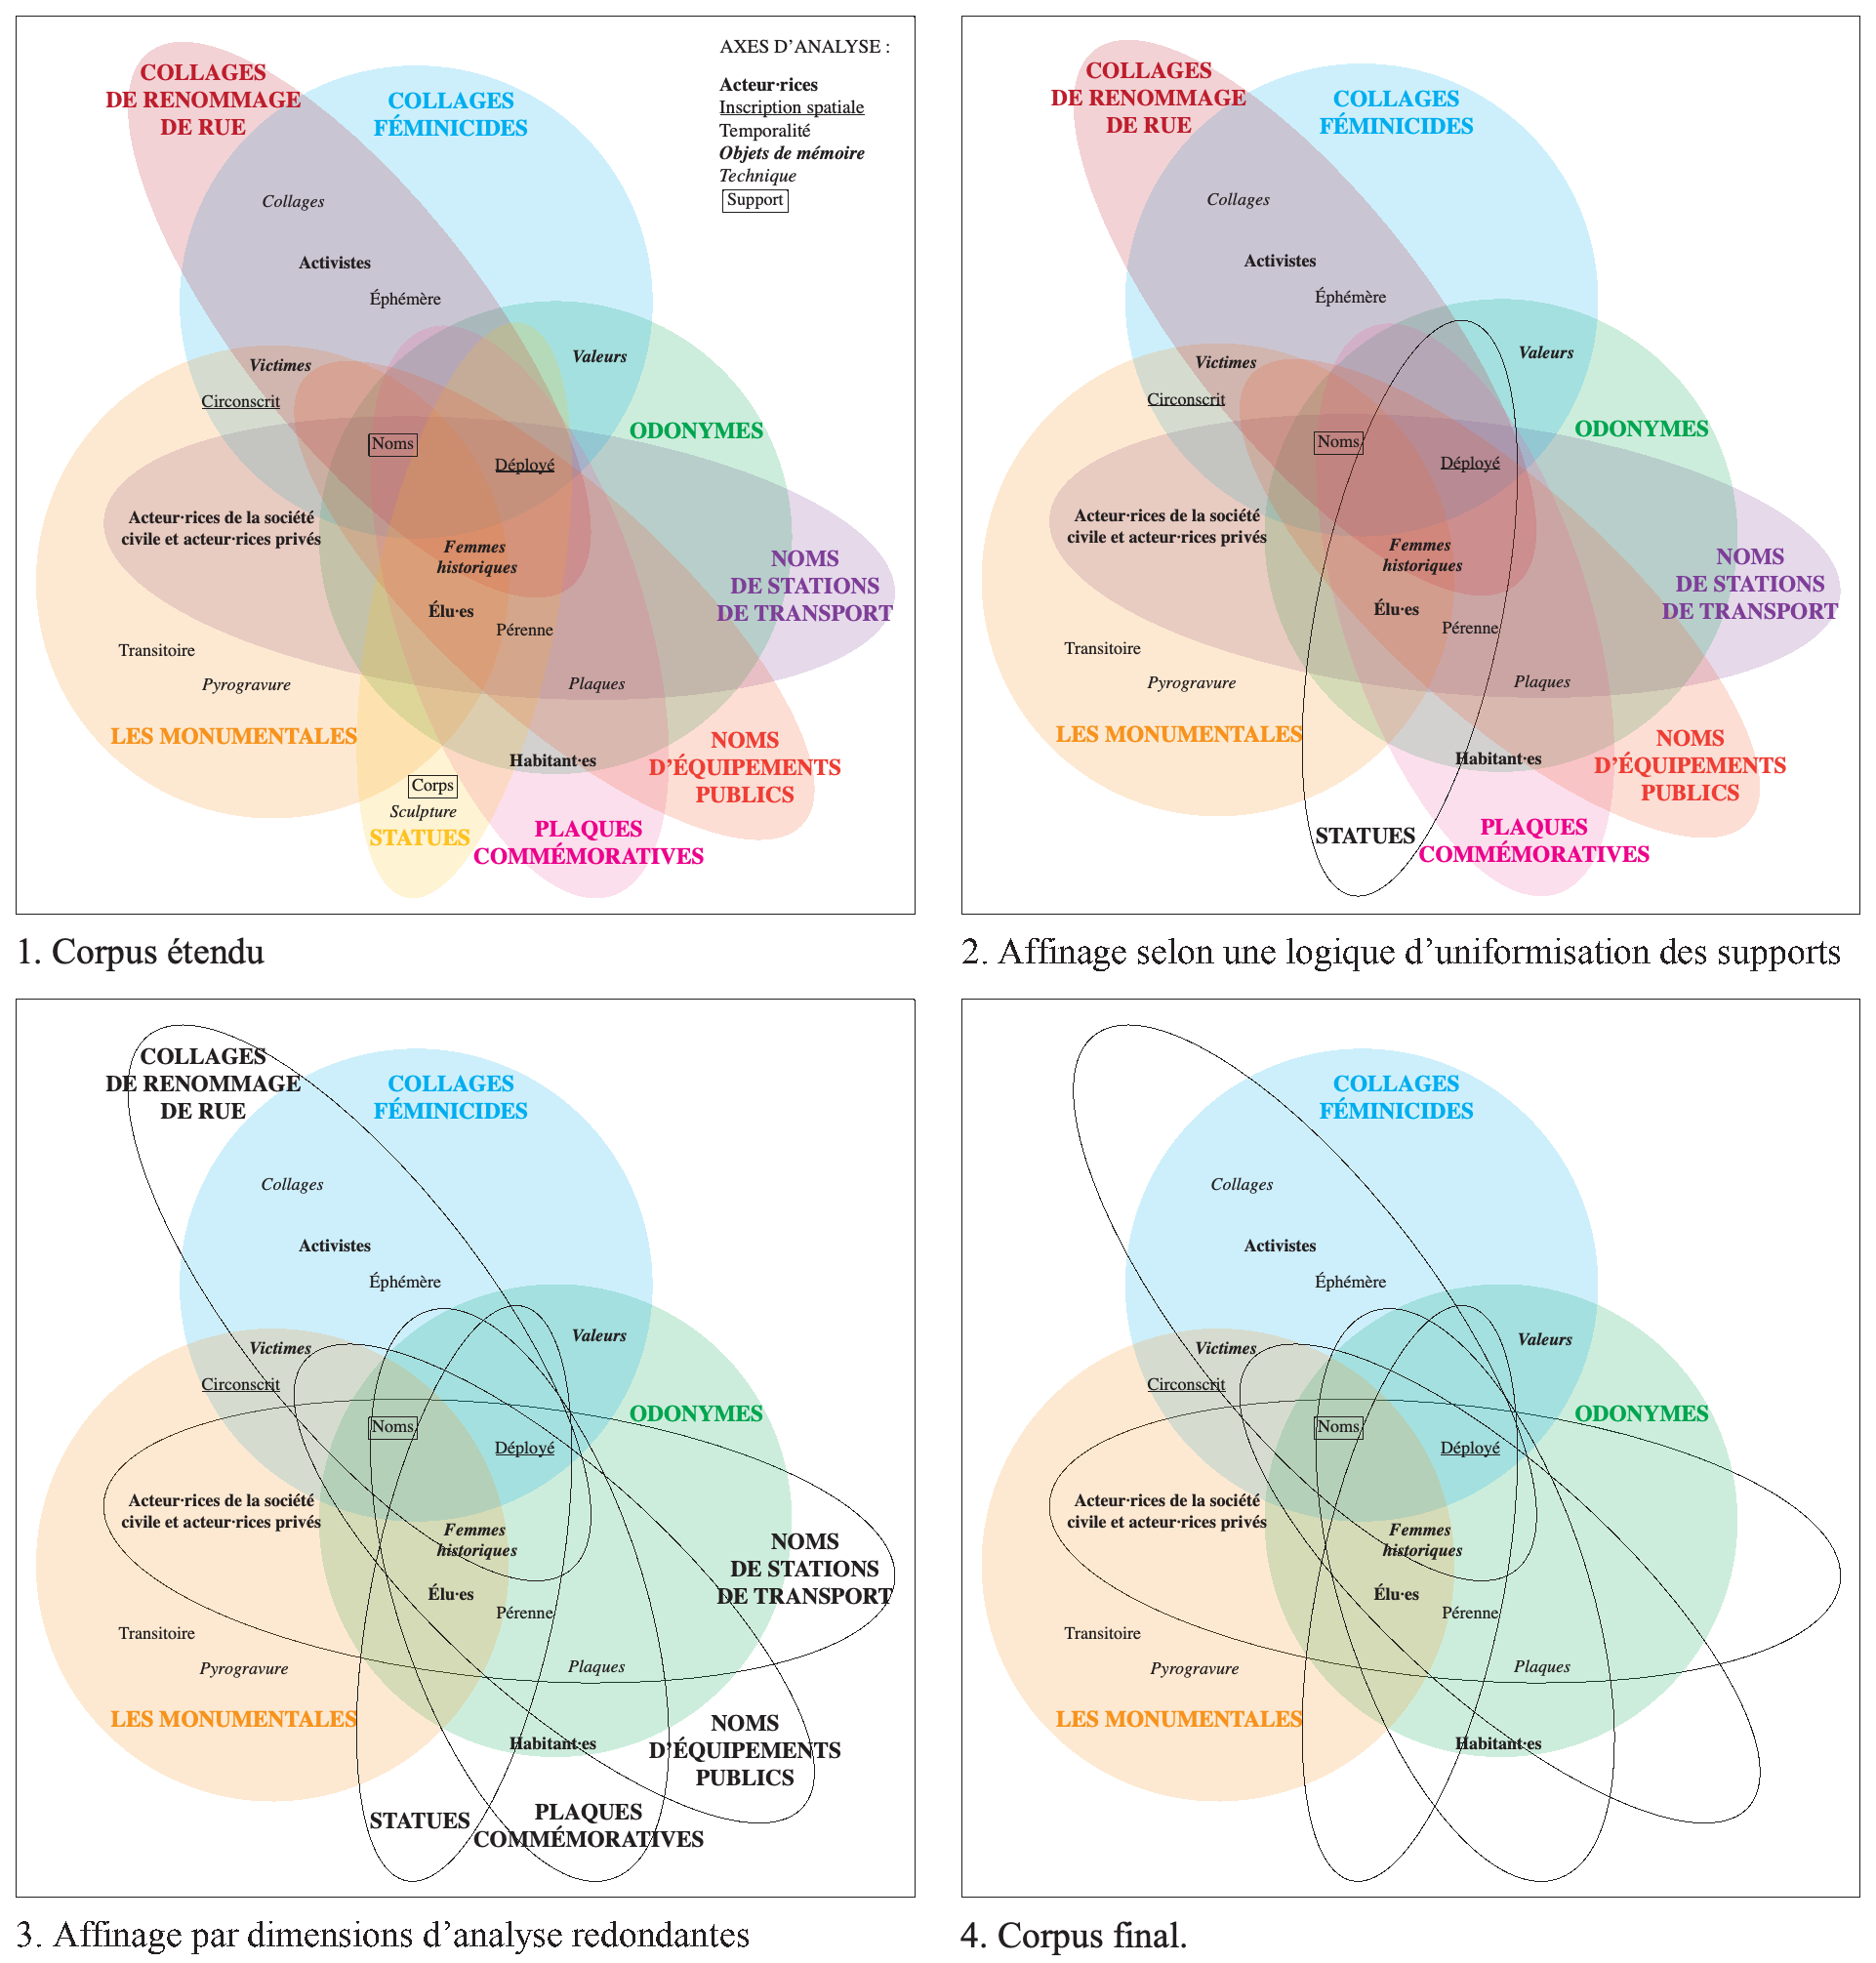
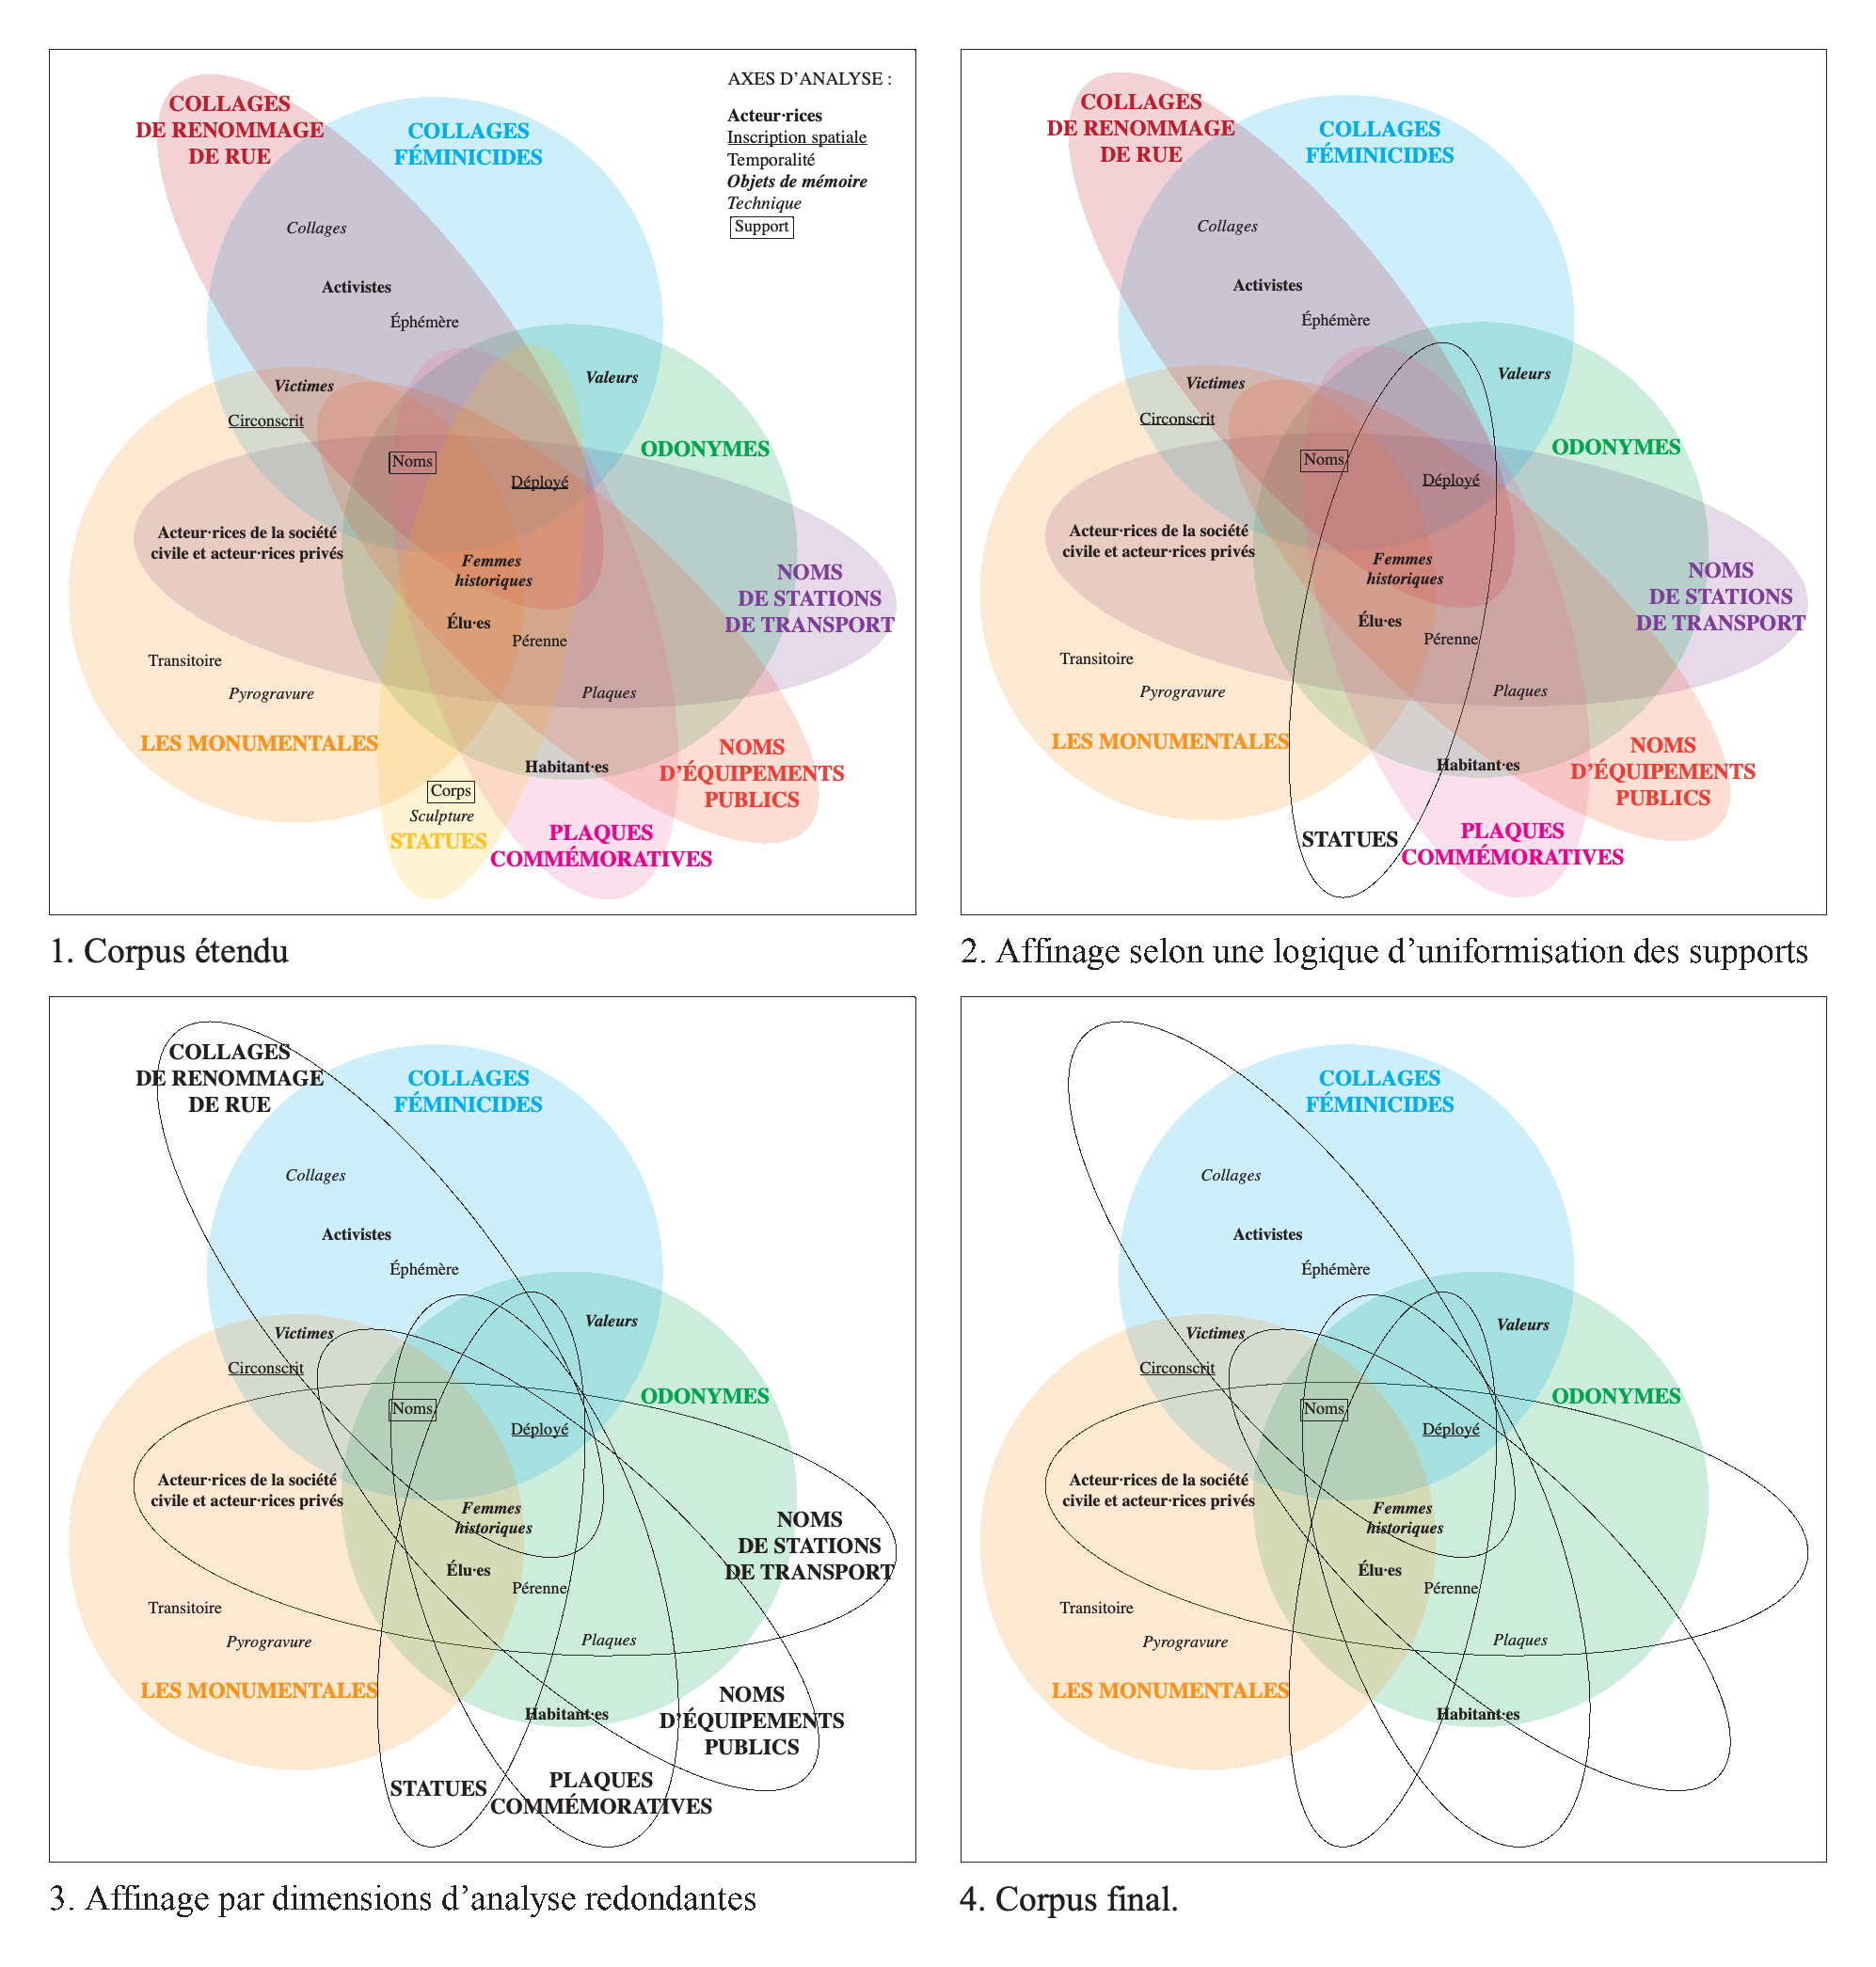
Corpus: white breathing margin (no longer reads as cut); lightbox mat + paper border white instead of cream

diff --git a/index.html b/index.html
@@ -37,7 +37,7 @@
 }
 </script>
 <script>
-  var BUILD = 45;
+  var BUILD = 46;
   console.log('%cDr Alexandra Mallah — site v' + BUILD, 'color:#8a6d3b;font-weight:bold');
   (function(){
     try{
@@ -149,7 +149,7 @@
   .schema img{width:100%;height:auto;display:block;background:transparent;cursor:zoom-in;
     transition:transform .55s cubic-bezier(.2,.6,.2,1);-webkit-user-drag:none}
   .schema:hover img{transform:scale(1.045)}
-  .schema.paper img{border:1px solid var(--line);border-radius:8px;background:#fff;padding:9px;box-sizing:border-box}
+  .schema.paper img{border:1px solid #fff;border-radius:8px;background:#fff;padding:9px;box-sizing:border-box}
   .docs-jump{display:inline-flex;align-items:center;gap:7px;margin-top:22px;padding:11px 22px;border:1px solid var(--gold-soft);border-radius:30px;color:var(--gold);font-family:var(--sans);font-size:14px;letter-spacing:.02em;cursor:pointer;background:transparent;transition:background .25s,color .25s,border-color .25s}
   .docs-jump:hover{background:var(--gold);color:#fff;border-color:var(--gold)}
   .schema figcaption{padding:8px 2px 2px;font-size:13.5px;color:var(--ink);font-family:var(--serif)}
@@ -171,7 +171,7 @@
   .lb-fig{margin:0;display:flex;flex-direction:column;align-items:center;gap:14px;max-width:94%}
   .lb-fig img{max-width:100%;max-height:80vh;border-radius:8px;box-shadow:0 20px 60px rgba(0,0,0,.45);
     background:none;object-fit:contain;-webkit-user-drag:none;user-select:none}
-  .lightbox.sch .lb-fig img{background:#f7f2ea;padding:18px;box-sizing:border-box}
+  .lightbox.sch .lb-fig img{background:#fff;padding:18px;box-sizing:border-box}
   .lb-cap{font-family:var(--serif);font-size:15px;color:#f3ece0;text-align:center;max-width:600px;line-height:1.4}
   .lb-cap .credit{display:block;font-family:var(--sans);font-size:11.5px;color:#bcae99;margin-top:3px}
   .lb-close{position:absolute;top:16px;right:24px;color:#fff;font-size:32px;line-height:1;opacity:.8;cursor:pointer;z-index:3}
@@ -404,7 +404,7 @@
           <div class="doc-col">
             <h4><span class="en">Diagrams &amp; charts</span><span class="fr">Graphiques &amp; schémas</span></h4>
             <div class="doc-scroll">
-              <figure class="schema paper"><img src="images/fig-corpus.png?v=45" loading="lazy" draggable="false" alt="Schéma de la construction du corpus de recherche par affinages successifs"><figcaption><span class="en">Building the research corpus through successive refinements</span><span class="fr">Construction du corpus de recherche par affinages successifs</span><span class="credit">© Alexandra Mallah, 2025</span></figcaption></figure>
+              <figure class="schema paper"><img src="images/fig-corpus.png?v=46" loading="lazy" draggable="false" alt="Schéma de la construction du corpus de recherche par affinages successifs"><figcaption><span class="en">Building the research corpus through successive refinements</span><span class="fr">Construction du corpus de recherche par affinages successifs</span><span class="credit">© Alexandra Mallah, 2025</span></figcaption></figure>
               <figure class="schema paper"><img src="images/fig-schemes.png?v=41" loading="lazy" draggable="false" alt="Schéma des schèmes temporels et spatiaux qui régissent l'existence des écrits"><figcaption><span class="en">Temporal and spatial schemes governing the life of public writings</span><span class="fr">Schèmes temporels et spatiaux qui régissent l'existence des écrits</span><span class="credit">© Alexandra Mallah, 2025</span></figcaption></figure>
               <figure class="schema paper"><img src="images/fig-visibilite.png?v=45" loading="lazy" draggable="false" alt="Schéma de la visibilité des écritures exposées selon une approche temporelle"><figcaption><span class="en">The visibility of public writings through a temporal lens</span><span class="fr">Synthèse de la visibilité des écritures exposées selon une approche temporelle</span><span class="credit">© Alexandra Mallah, 2025</span></figcaption></figure>
               <figure class="schema paper"><img src="images/fig-pantheon.png?v=41" loading="lazy" draggable="false" alt="Schéma de l'organisation des marqueurs mémoriels de la place du Panthéon selon le type de mémoire"><figcaption><span class="en">Mapping the memorial markers of place du Panthéon by type of memory</span><span class="fr">Organisation des marqueurs mémoriels de la place du Panthéon selon le type de mémoire</span><span class="credit">© Alexandra Mallah, 2025</span></figcaption></figure>
@@ -650,7 +650,7 @@
 </section>
 
 <footer>© 2026 Alexandra Mallah</footer>
-<div class="ver" id="ver">v45</div>
+<div class="ver" id="ver">v46</div>
 
 <div class="lightbox" id="lightbox" oncontextmenu="return false"><span class="lb-close" aria-hidden="true">×</span><span class="lb-nav lb-prev" id="lb-prev" role="button" aria-label="Image précédente">‹</span><span class="lb-nav lb-next" id="lb-next" role="button" aria-label="Image suivante">›</span><figure class="lb-fig"><img id="lightbox-img" src="" alt="" draggable="false"><figcaption class="lb-cap" id="lightbox-cap"></figcaption></figure></div>
 